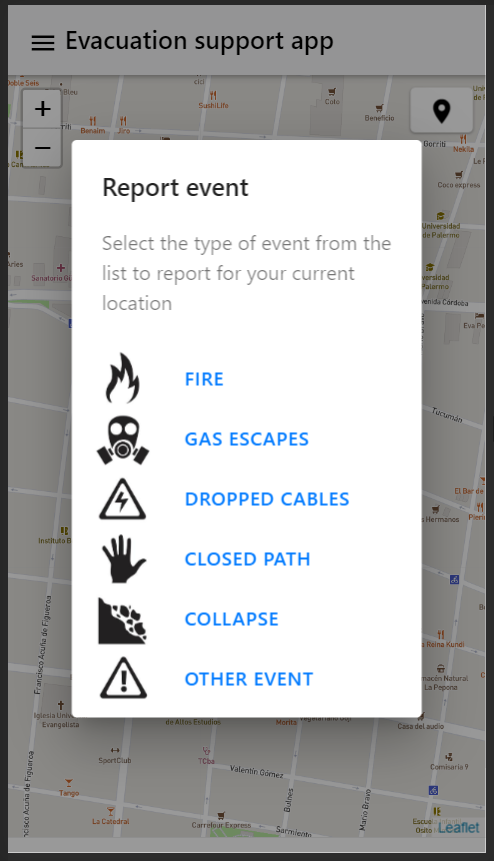
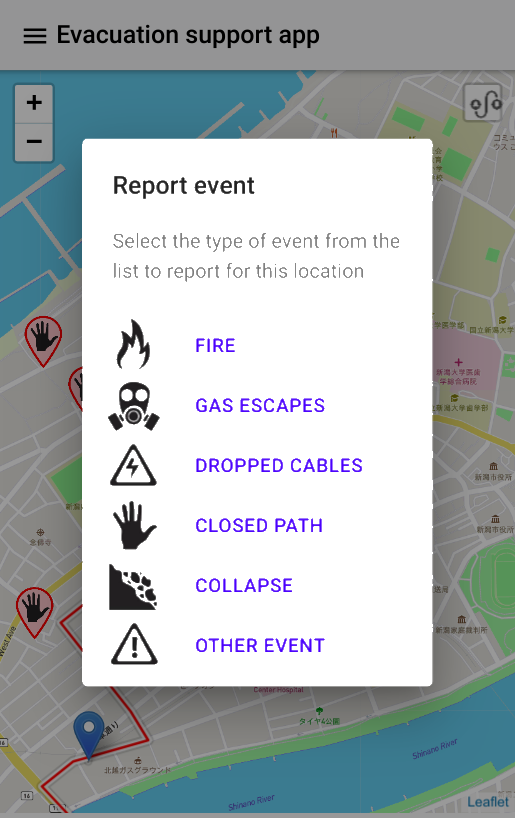
Nuevas instrucciones de uso

diff --git a/views/help.html b/views/help.html
@@ -4,8 +4,10 @@
         <div class="block">
             <p>The map will show your current location in a blue marker, the evacuation path in a red route and nearest reported danger zones.</p>
             <img src="custom/img/map_screenshot.png" class="help-img">
-            <p>Tap or click on any place on the map to report an event, or clicking the <i class="material-icons small">room</i> button to report an event in your current location.</p>
+            <p>Tap or click on any place on the map to report an event. If the event is validated on the network, the border of the icon is red, otherwise the icon will be displayed with a gray border until the event is synchronized with the system.</p>
             <img src="custom/img/events_screenshot.png" class="help-img">
+            <p>Follow the instructions provided expanding the menu with the <img src="assets/css/routing-icon.png"> button.</p>
+            <img src="custom/img/route_screenshot.png" class="help-img">
         </div>
     </div>
 </div>
